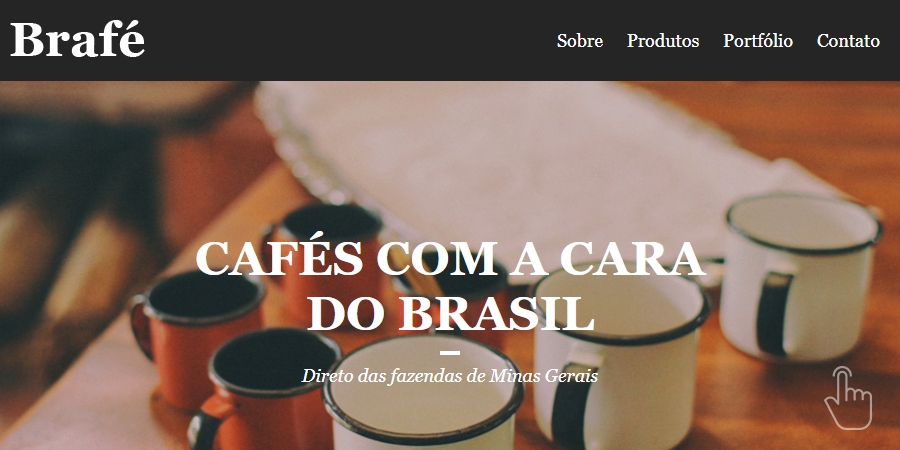
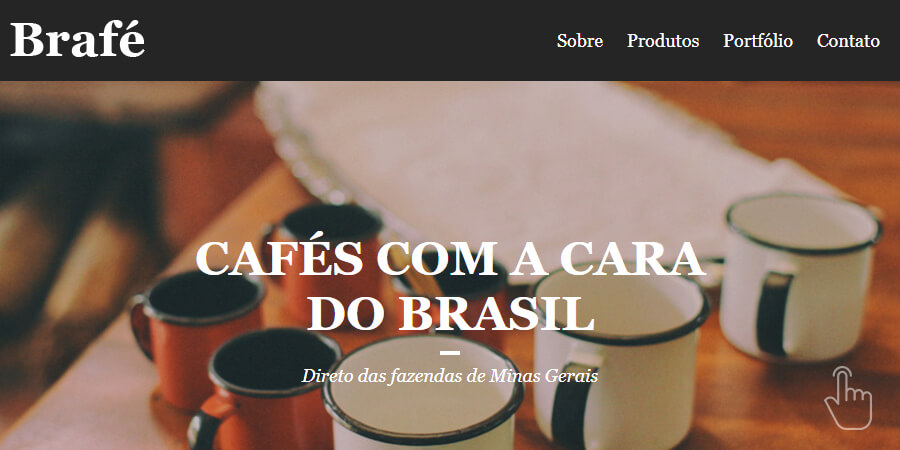
Added Portfolio

Changed region(s): [[0.8089, 0.0622, 0.8711, 0.1244], [0.7467, 0.0933, 0.7778, 0.1244], [0.3422, 0.8089, 0.3733, 0.84]]

diff --git a/v2/index.html b/v2/index.html
@@ -113,13 +113,23 @@
 				</div>
 				<br>
 				<div data-slide="slide2" class="slide">
-					<div class="slide-thumb"></div>
 					<div class="slide-items">
+						<a href="https://lucas-hmsc.github.io/dogs-react/" target="_blank" rel="external"><img src="img/portfolio/dogs-react.jpg" alt="Rede Social Dogs com React"></a>
+						<a href="https://lucas-hmsc.github.io/vitrine-react/" target="_blank" rel="external"><img src="img/portfolio/vitrine-react.jpg" alt="Vitrine com React"></a>
+						<a href="https://lucas-hmsc.github.io/animais-fantasticos/" target="_blank" rel="external"><img src="img/portfolio/animais-fantasticos.jpg" alt="Animais Fantasticos"></a>
+						<a href="https://lucas-hmsc.github.io/animais-fantasticos/exercises/slide/index.html" target="_blank" rel="external"><img src="img/portfolio/slide-responsivo.jpg" alt="Slide Responsivo"></a>
+						<a href="https://lucas-hmsc.github.io/developers/" target="_blank" rel="external"><img src="img/portfolio/developers.jpg" alt="Developers"></a>
+						<a href="https://lucas-hmsc.github.io/developers/contador-caracteres/" target="_blank" rel="external"><img src="img/portfolio/contador-caracteres.jpg" alt="Contador de Caracteres"></a>
+						<a href="https://lucas-hmsc.github.io/le-scone/" target="_blank" rel="external"><img src="img/portfolio/le-scone.jpg" alt="Le-Scone"></a>
+						<a href="https://lucas-hmsc.github.io/caravan/" target="_blank" rel="external"><img src="img/portfolio/caravan.jpg" alt="Caravan"></a>
+						<a href="https://lucas-hmsc.github.io/flexblog/" target="_blank" rel="external"><img src="img/portfolio/flexblog.jpg" alt="Flexblog"></a>
+						<a href="https://lucas-hmsc.github.io/wildbeast/" target="_blank" rel="external"><img src="img/portfolio/wildbeast.jpg" alt="Wildbeast"></a>
 						<a href="https://lucas-hmsc.github.io/brafe/brafe-3/puro/" target="_blank" rel="external"><img src="img/portfolio/brafe-3.jpg" alt="Brafé 3"></a>
 						<a href="https://lucas-hmsc.github.io/brafe/brafe-2/puro/" target="_blank" rel="external"><img src="img/portfolio/brafe-2.jpg" alt="Brafé 2"></a>
 						<a href="https://lucas-hmsc.github.io/brafe/brafe-1/puro/" target="_blank" rel="external"><img src="img/portfolio/brafe-1.jpg" alt="Brafé 1"></a>
 						<a href="https://lucas-hmsc.github.io/bikcraft/index.html" target="_blank" rel="external"><img src="img/portfolio/bikcraft.jpg" alt="Bikicraft"></a>
 					</div>
+					<div class="slide-thumb"></div>
 					<nav class="slide-nav">
 						<div class="slide-prev"><img src="img/icones/seta-esq.svg" alt="Mover para Esquerda"></div>
 						<div class="slide-next"><img src="img/icones/seta-dir.svg" alt="Mover para Esquerda"></div>

diff --git a/v2/css/style.css b/v2/css/style.css
@@ -294,6 +294,7 @@ p {
   position: relative;
   grid-area: 1/1;
   overflow: hidden;
+  box-shadow: 5px 5px 15px 0px rgba(44, 44, 44, 0.15);
 }
 .slide-items > * {
   position: absolute;
